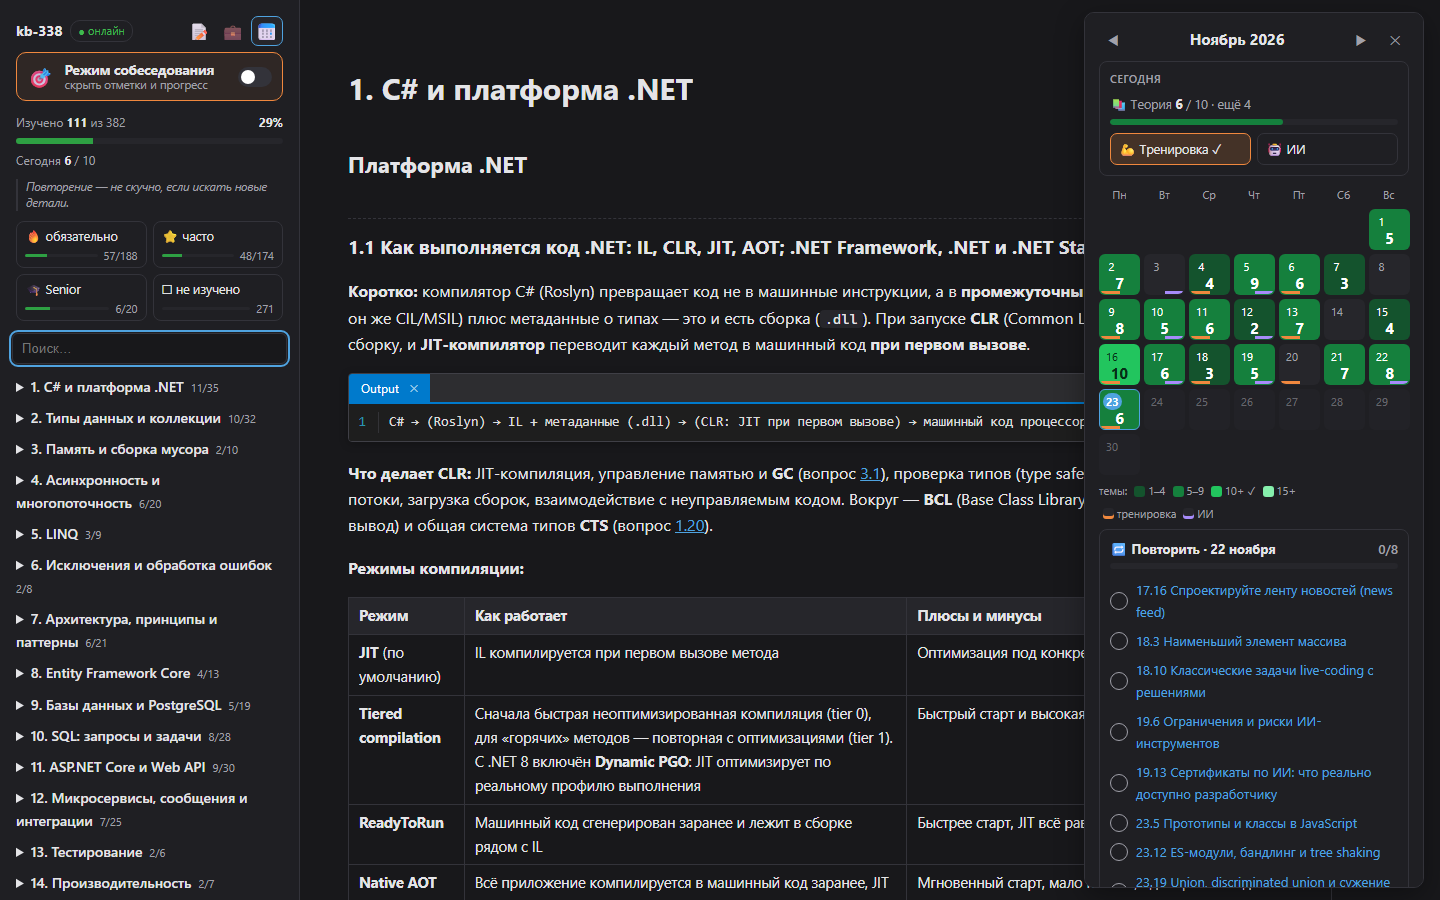
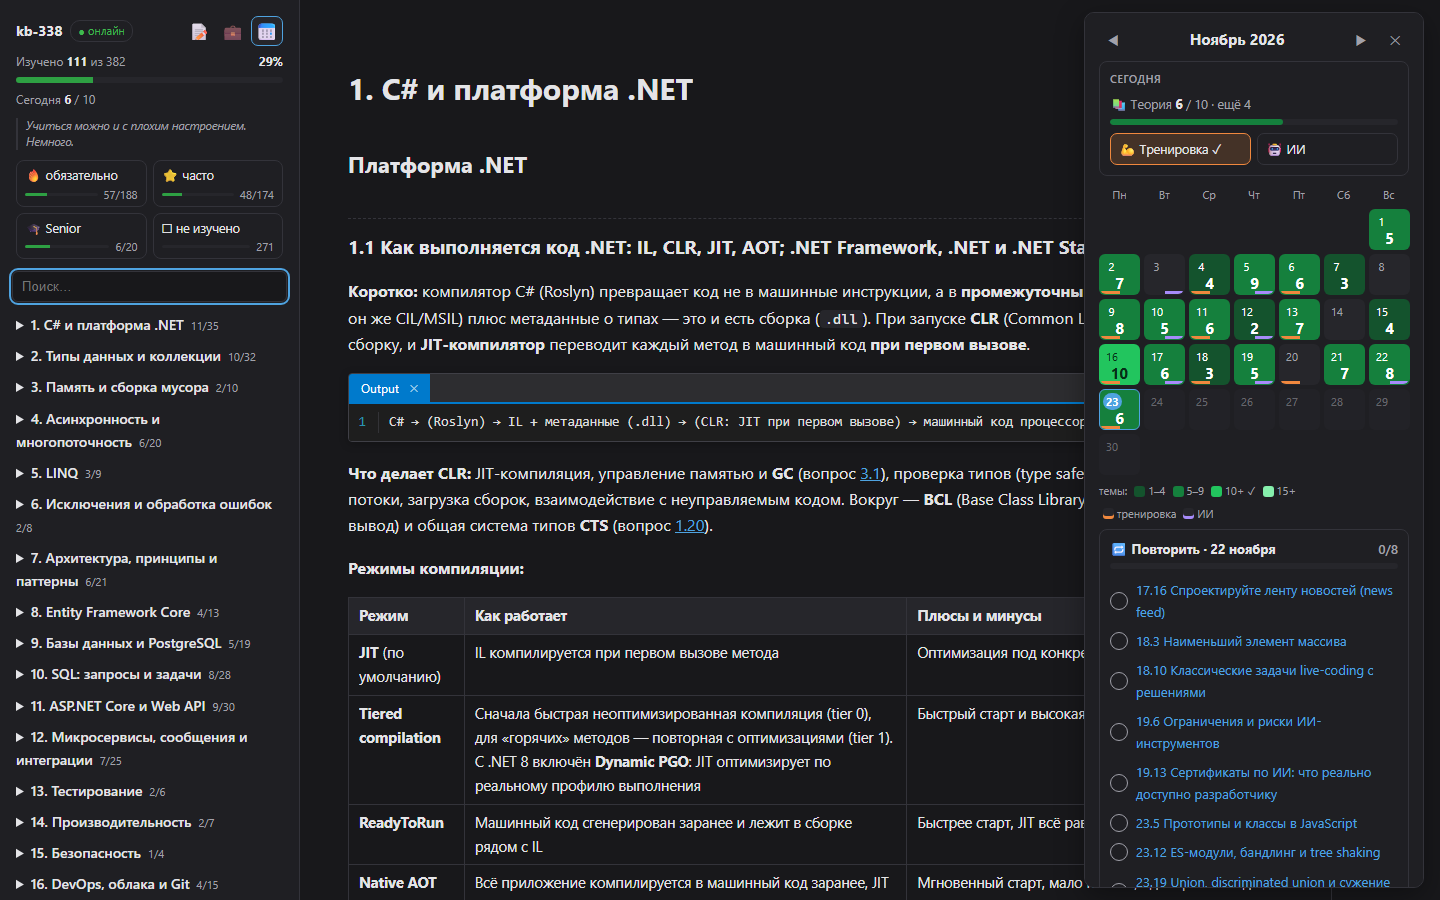
README: скриншоты без кнопки «Режим собеседования», режим убран из описания
Кнопка скрыта только на скриншотах (стиль при съёмке), в приложении она остаётся.

Changed region(s): [[0.0, 0.2489, 0.1875, 0.9956], [0.0, 0.0622, 0.1875, 0.2178]]

diff --git a/README.md b/README.md
@@ -5,7 +5,7 @@
 Подготовка к собеседованию .NET-разработчика и трекер откликов в одном приложении:
 
 - **база знаний** — вопросы с ответами по разделам, поиск (номера, синонимы, опечатки, неверная раскладка),
-  прогресс, календарь занятий, режим собеседования, выделения и заметки;
+  прогресс, календарь занятий, выделения и заметки;
 - **отклики** — воронка (отклик → HR → тех. собес → оффер), история событий и проверка в фоне,
   открыта ли ещё вакансия на [DOU](https://jobs.dou.ua) и [Work.ua](https://www.work.ua).
 
